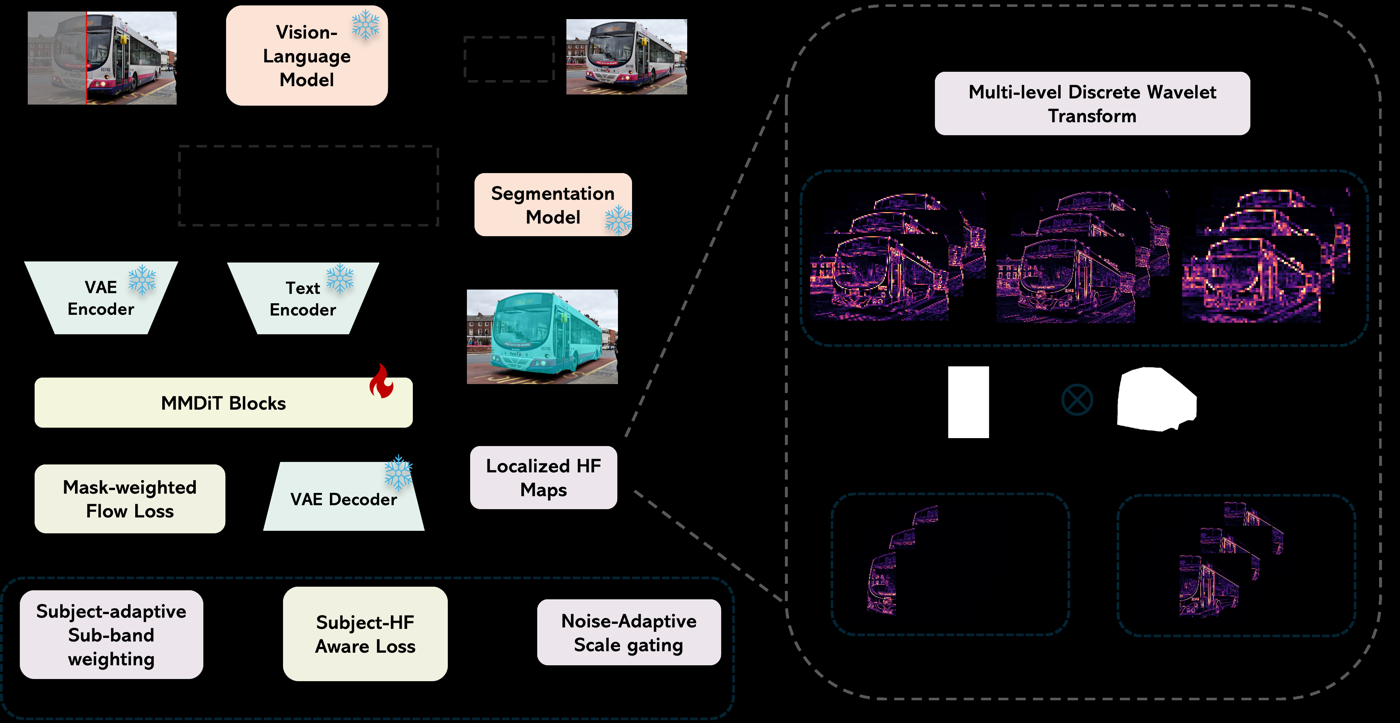
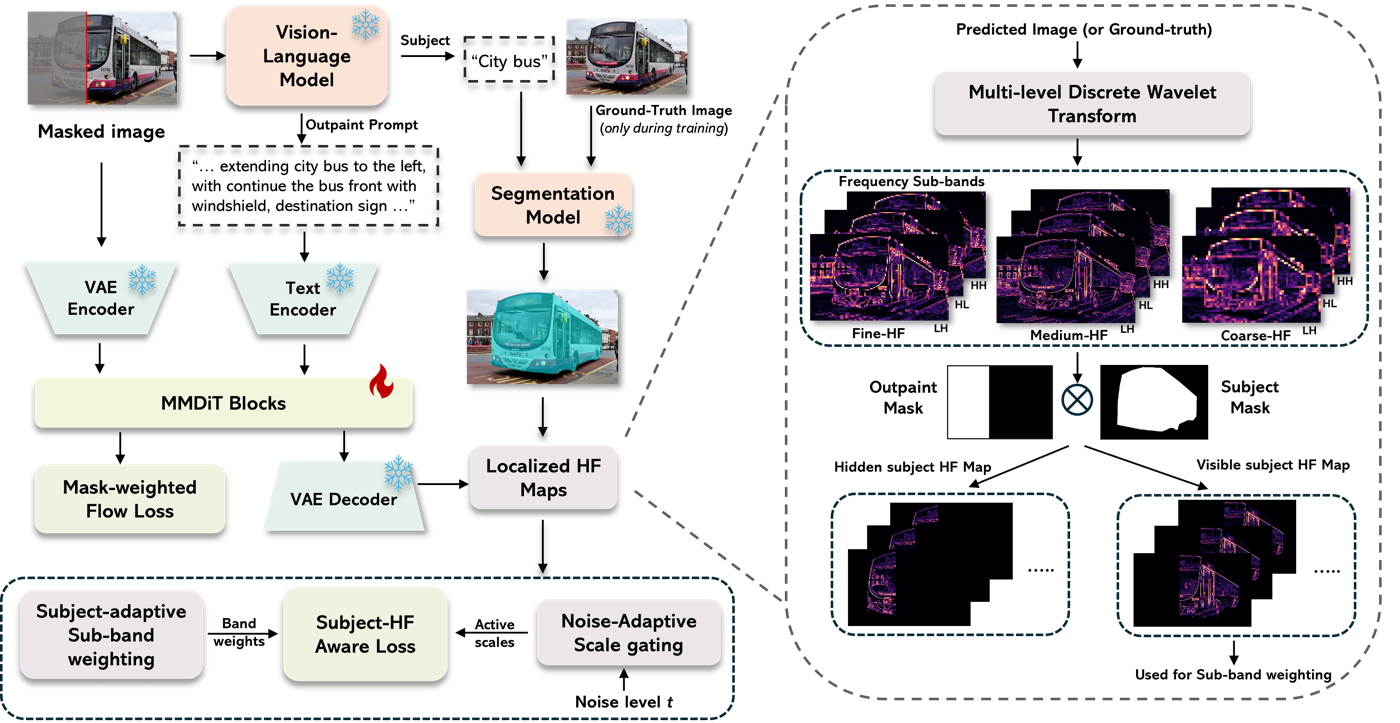
upd fig

diff --git a/index.html b/index.html
@@ -127,7 +127,6 @@ Time Series Modeling with Missing Data</i></a> - has been accepted to <a href="h
 
 <p>
 	<b>Scientific ML and Foundation Models.</b>
-	<br>
 	1) I have worked on building foundation models for scientific and environmental systems, with a particular focus on irregular and sparse spatiotemporal data (<a href="https://arxiv.org/pdf/2606.11268">LakeFM'26</a>).
 	<br>
 	2) Additionally, I have developed model-agnostic techniques for robust modeling of irregularly sampled time-series (<a href="https://arxiv.org/pdf/2502.15785">MissTSM'25</a>).
@@ -164,7 +163,7 @@ Time Series Modeling with Missing Data</i></a> - has been accepted to <a href="h
 			    Xu Chen,
 			    Jian Jiao.
 			    <br>
-			    <font color="ff33ff">Under review &nbsp </font>
+			    <font color="ff33ff">Under review &nbsp </font> (arXiv coming soon)
 			    <br>
 			    We propose a subject-clarity outpainting framework that combines VLM-guided semantic conditioning with subject-localized multilevel wavelet supervision, preserving subject fidelity without added inference cost.
 		  </td>
